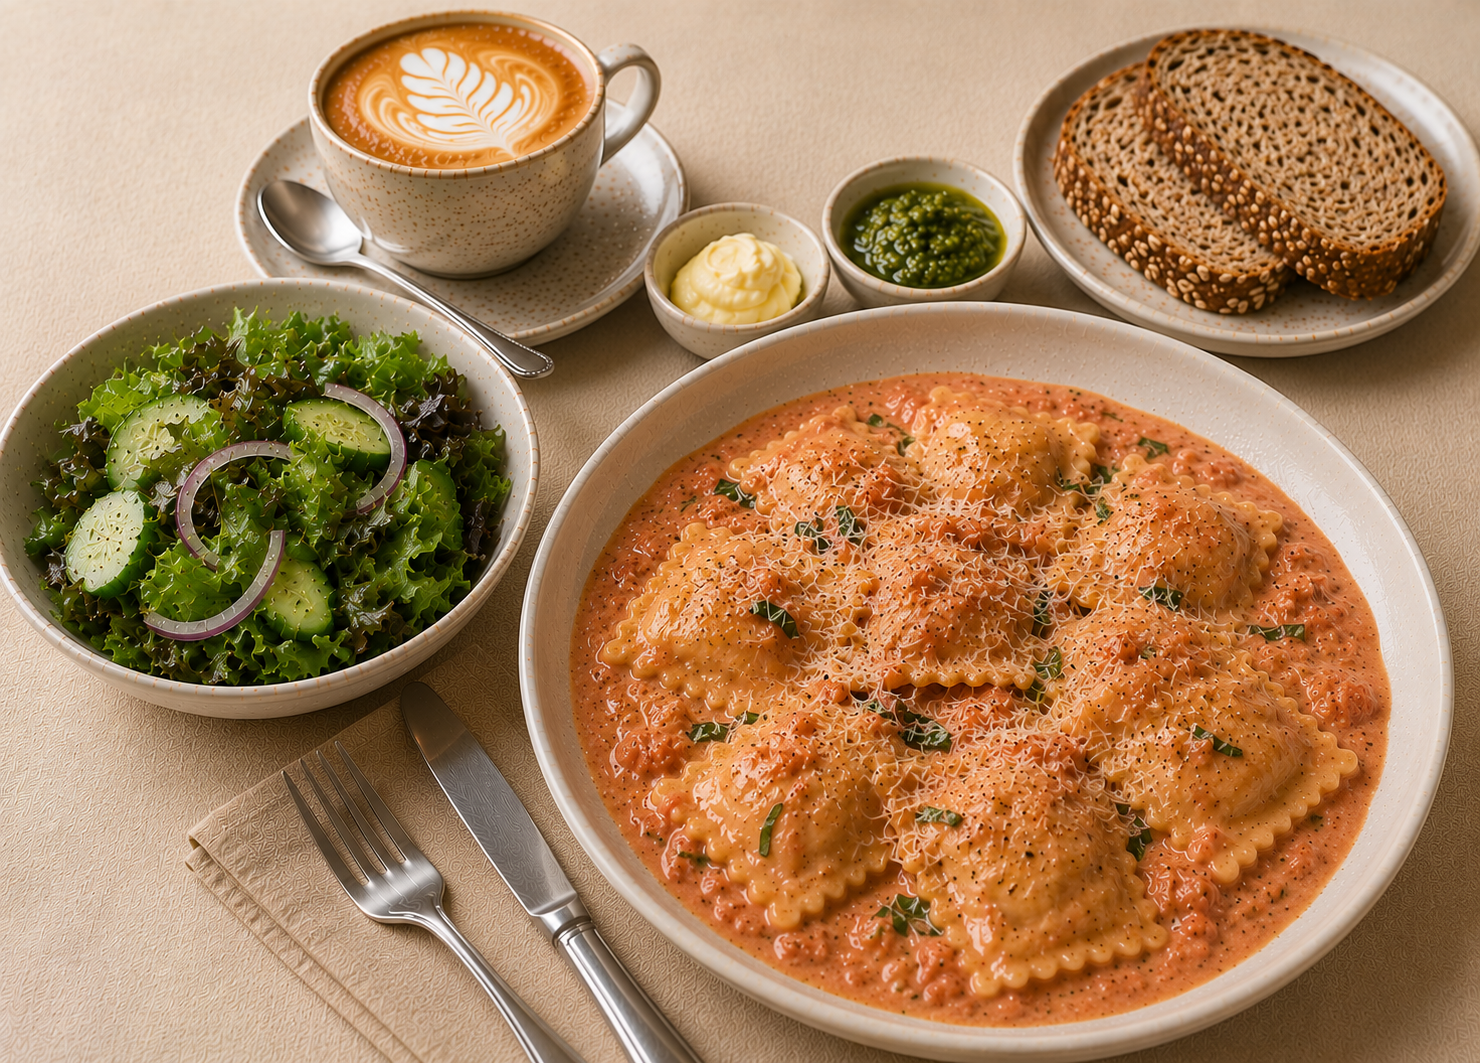
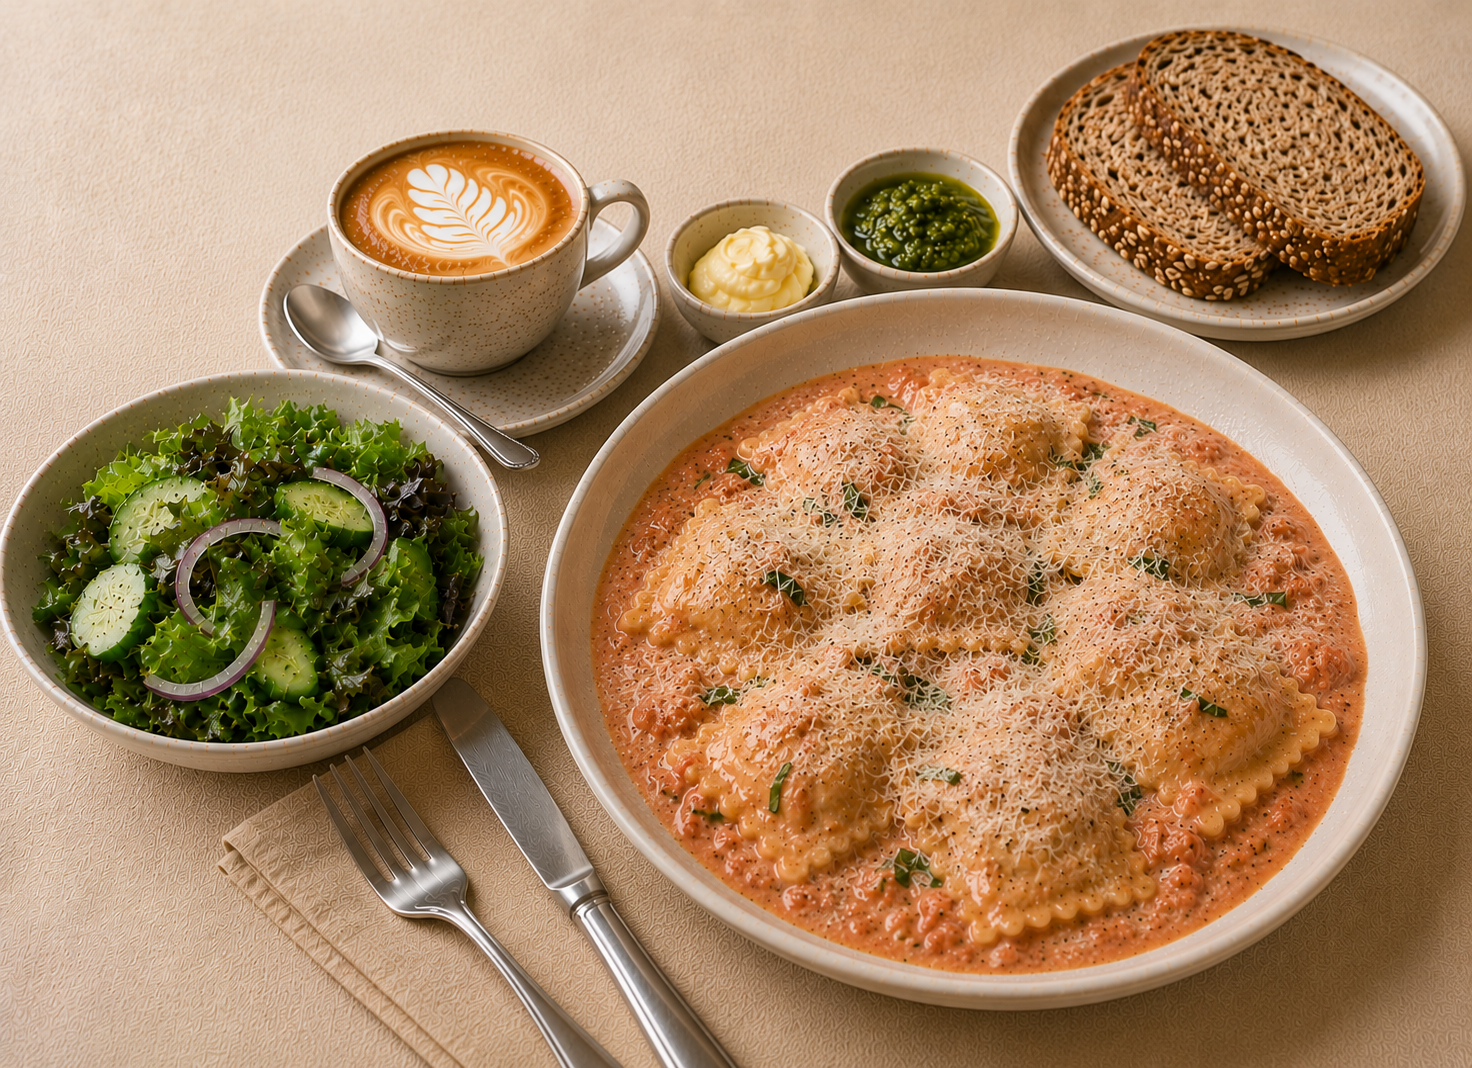
df

diff --git a/Frontend/src/Components/Header/Header.css b/Frontend/src/Components/Header/Header.css
@@ -134,6 +134,7 @@ box-shadow: 0 2px 8px rgba(0, 0, 0, 0.12);
 
 
   .LoginBtn {
+      border: 1.5px solid grey;
     grid-column: 3;
     grid-row: 1;
     justify-self: end;
@@ -170,18 +171,18 @@ box-shadow: 0 2px 8px rgba(0, 0, 0, 0.12);
   justify-content: center;
   width: 40px;
   height: 40px;
-  border-radius: 8px;
-  color: #222222;
+  border-radius: 50%;
+  color: #1e6c9c;
   cursor: pointer;
+  background: white;
+  overflow: hidden;
+    border: 1.5px solid grey;
 }
 
 .MenuBtn button {
-  display: inline-flex;
-  align-items: center;
-  justify-content: center;
-  width: 100%;
-  height: 100%;
-  cursor: pointer;
+  background: transparent !important;
+  border-radius: 50% !important;
+  box-shadow: none !important;
 }
 
 .IdentityBadge {
@@ -201,8 +202,8 @@ box-shadow: 0 2px 8px rgba(0, 0, 0, 0.12);
   font-weight: 200;
   font-size: 13px;
   color: #222;
-  background: rgba(255, 255, 255, 0.08);
-  border: 1px solid #c8c8c8;
+  border: 1.5px solid grey;
+  background: white;
   user-select: none;
   white-space: nowrap;
 }
@@ -229,13 +230,15 @@ box-shadow: 0 2px 8px rgba(0, 0, 0, 0.12);
 }
 
 .LanguageLink {
-  height: 34px;
+  height: 30px;
   background: rgb(255, 255, 255) !important;
   font-size: 13px;
   line-height: 1;
   cursor: pointer;
   font-weight: 200;
+  border-radius: 16px;
   color: #222 !important;
+    border: 1.5px solid grey;
 }
 
 .LanguageSelector {
@@ -267,4 +270,35 @@ box-shadow: 0 2px 8px rgba(0, 0, 0, 0.12);
   .HeaderTitleImage {
     display: none;
   }
+
+  .LanguageLink, .UsageBadge, .LoginBtn, .MenuBtn {
+    border: none !important;
+  }
+  
+.MenuBtn {
+  position: absolute;
+  right: 12px;
+  top: 50%;
+  transform: translateY(-50%);
+  display: inline-flex;
+  align-items: center;
+  justify-content: center;
+  width: 44px;
+  height: 44px;
+  border-radius: 50%;
+  color: #1e6c9c;
+  cursor: pointer;
+  background: white;
+  overflow: visible;
+  box-shadow: 0 4px 12px rgba(0, 0, 0, 0.18);
+}
+
+.MenuBtn button {
+  display: inline-flex;
+  align-items: center;
+  justify-content: center;
+  width: 100%;
+  height: 100%;
+  cursor: pointer;
+}
 }

diff --git a/Frontend/src/Components/HomeScreen/HomeScreen.css b/Frontend/src/Components/HomeScreen/HomeScreen.css
@@ -38,44 +38,6 @@
 }
 
 
-.main-image-wrapper {
-  position: relative;
-  width: 650px;
-  max-height: 360px;
-  overflow: hidden;
-  background: white;
-}
-
-.home-screen-wrapper.ltr .main-image-wrapper {
-  align-self: flex-end;
-  margin-left: 0;
-  margin-right: 0;
-}
-
-.home-screen-wrapper.rtl .main-image-wrapper {
-  align-self: flex-start;
-  margin-left: 0;
-  margin-right: 0;
-}
-
-.main-image {
-  display: block;
-  width: 100%;
-  height: auto;
-  transform: translateY(-20px);
-}
-
-.main-image-wrapper::after {
-  content: "";
-  position: absolute;
-  inset: 0;
-  pointer-events: none;
-
-  background:
-    linear-gradient(to bottom, white 0%, transparent 14%, transparent 86%, white 100%),
-    linear-gradient(to right, rgba(255,255,255,0.65) 0%, transparent 26%);
-}
-
 .SelectionDiv {
   width: 100%;
 }
@@ -393,13 +355,68 @@
   font-weight: 700 !important;
 }
 
+.mobile-main-image-wrapper {
+  display: none;
+}
+
+
 @media (max-width: 600px) {
 
   .main-title {
     width: 320px;
-    max-width: 90%;
+    max-width: 58%;
     display: block;
-    margin: 0 auto;
+  }
+
+  .home-screen-wrapper.ltr .main-title {
+    margin-left: 40px;
+    margin-right: auto;
+  }
+
+  .home-screen-wrapper.rtl .main-title {
+    margin-right: 40px;
+    margin-left: auto;
+  }
+
+  .mobile-main-image-wrapper {
+    display: block;
+    position: absolute;
+    top: -5px;
+    width: 38vw;
+    height: 230px;
+    overflow: hidden;
+    background: white;
+  }
+
+  .home-screen-wrapper.ltr .mobile-main-image-wrapper {
+    right: 0;
+    left: auto;
+  }
+
+  .home-screen-wrapper.rtl .mobile-main-image-wrapper {
+    left: 0;
+    right: auto;
+  }
+
+  .mobile-main-image {
+    display: block;
+    width: auto;
+    height: 100%;
+    object-fit: contain;
+  }
+
+  .home-screen-wrapper.ltr .mobile-main-image {
+    margin-left: auto;
+    margin-right: 0;
+  }
+
+  .home-screen-wrapper.rtl .mobile-main-image {
+    margin-right: auto;
+    margin-left: 0;
+  }
+
+  .mobile-main-image-wrapper::after {
+    display: none;
   }
 
   .SelectListDiv {

diff --git a/Frontend/src/Components/MainLayout/MainLayout.css b/Frontend/src/Components/MainLayout/MainLayout.css
@@ -12,7 +12,7 @@
   overflow-x: hidden; 
   overflow-y: visible;
   box-sizing: border-box;
- background-color: #ffffff;
+  background-color: #ffffff;
 }
 
 .MainLayout > * {
@@ -45,3 +45,83 @@ main {
   overflow-x: hidden;
 }
 
+.LayoutHomeImageWrapper {
+  position: absolute;
+  top: 0;
+  width: 760px;
+  height: 430px;
+  overflow: hidden;
+  z-index: 0;
+  pointer-events: none;
+}
+
+.LayoutHomeImageWrapper.ltr {
+  right: 0;
+}
+
+.LayoutHomeImageWrapper.rtl {
+  left: 0;
+}
+
+.LayoutHomeImage {
+  width: 100%;
+  height: 100%;
+  object-fit: cover;
+  display: block;
+}
+
+.LayoutHomeImageWrapper::after {
+  content: "";
+  position: absolute;
+  inset: 0;
+  pointer-events: none;
+}
+
+.LayoutHomeImageWrapper.ltr::after {
+  background:
+    linear-gradient(
+      to bottom,
+      rgba(255,255,255,0.25) 0%,
+      transparent 18%,
+      transparent 76%,
+      white 100%
+    ),
+    linear-gradient(
+      to right,
+      white 0%,
+      rgba(255,255,255,0.42) 12%,
+      rgba(255,255,255,0.16) 26%,
+      transparent 42%
+    );
+}
+
+.LayoutHomeImageWrapper.rtl::after {
+  background:
+    linear-gradient(
+      to bottom,
+      rgba(255,255,255,0.25) 0%,
+      transparent 18%,
+      transparent 76%,
+      white 100%
+    ),
+    linear-gradient(
+      to left,
+      white 0%,
+      rgba(255,255,255,0.42) 12%,
+      rgba(255,255,255,0.16) 26%,
+      transparent 42%
+    );
+}
+
+header,
+main {
+  position: relative;
+  z-index: 1;
+}
+
+@media (max-width: 600px) {
+  .LayoutHomeImageWrapper,
+  .LayoutHomeImage {
+    display: none;
+  }
+}

diff --git a/Frontend/src/Components/HomeScreen/HomeScreen.tsx b/Frontend/src/Components/HomeScreen/HomeScreen.tsx
@@ -17,10 +17,11 @@ import { DietaryRestrictions, GlutenRestrictions, LactoseRestrictions, RecipeCat
 import ArrowForwardIcon from '@mui/icons-material/ArrowForward';
 import ArrowBackIcon from '@mui/icons-material/ArrowBack';
 import titleImage from "../../Assets/images/title.png";
-import recipeImage from "../../Assets/images/home-screen-image.png";
 import { recipeSocketService } from "../../Services/RecipeSocketService";
 import AspectRatioIcon from '@mui/icons-material/AspectRatio';
 import CloseIcon from '@mui/icons-material/Close';
+import recipeImageHe from "../../Assets/images/home-screen-image-he.png";
+import recipeImageEn from "../../Assets/images/home-screen-image-en.png";
 
 enum ListState {
   SUGGESTIONS,
@@ -221,10 +222,12 @@ export function HomeScreen() {
     <div className={`HomeScreen ${user ? "user" : "guest"}`}>
       <div className={`home-screen-wrapper ${isRTL ? "rtl" : "ltr"}`}>
 
-                <div className="main-image-wrapper">
-          <img className="main-image" src={recipeImage} />
-
-        </div>
+<div className="mobile-main-image-wrapper">
+<img
+  className="mobile-main-image"
+  src={isRTL ? recipeImageHe : recipeImageEn}
+/>
+</div>
 
         <div>
           <img className="main-title" src={titleImage} />

diff --git a/Frontend/src/Components/MainLayout/MainLayout.tsx b/Frontend/src/Components/MainLayout/MainLayout.tsx
@@ -1,19 +1,31 @@
 import { useLocation } from "react-router-dom";
 import { Header } from "../Header/Header";
 import { Routing } from "../Routing/Routing";
+import { useLanguage } from "../../Utils/SetLanguage";
+import recipeImage from "../../Assets/images/home-screen-image.png";
 import "./MainLayout.css";
 
 export function MainLayout() {
   const { pathname } = useLocation();
+  const { isRtl } = useLanguage();
+
   const hideHeader = pathname === "/404";
+  const showHomeImage = pathname === "/home" || pathname === "/";
 
   return (
     <div className="MainLayout">
+      {showHomeImage && (
+        <div className={`LayoutHomeImageWrapper ${isRtl ? "rtl" : "ltr"}`}>
+          <img className="LayoutHomeImage" src={recipeImage} />
+        </div>
+      )}
+
       {!hideHeader && (
         <header>
           <Header />
         </header>
       )}
+
       <main>
         <Routing />
       </main>

diff --git a/Frontend/src/Components/Header/Header.tsx b/Frontend/src/Components/Header/Header.tsx
@@ -107,7 +107,7 @@ const usageLimit = usage?.limit ?? (isGuest ? 5 : 8);
           <div
             className={`UsageBadge ${usage!.remaining === 0 ? "danger" : ""}`}
             title={
-              usage!.windowEndsAt
+               usage!.windowEndsAt
                 ? `Resets at ${new Date(usage!.windowEndsAt).toLocaleString()}`
                 : "Usage"
             }
